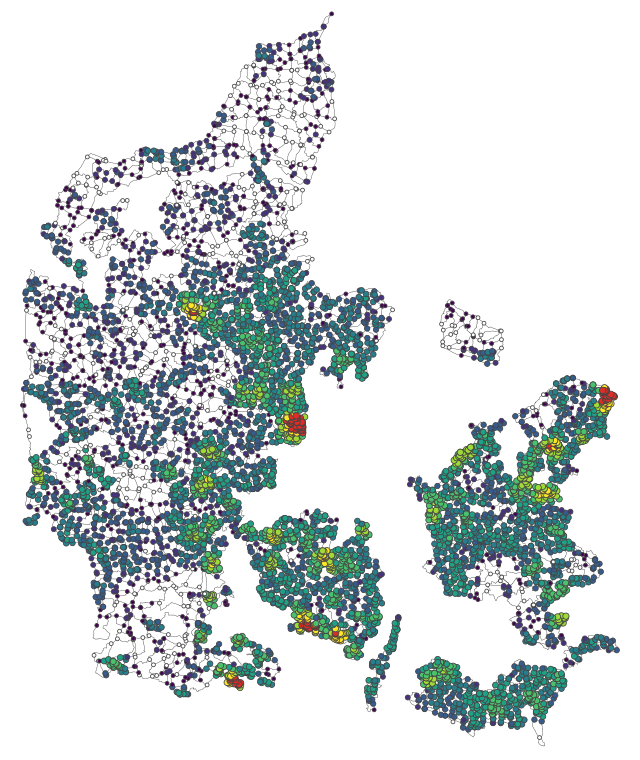
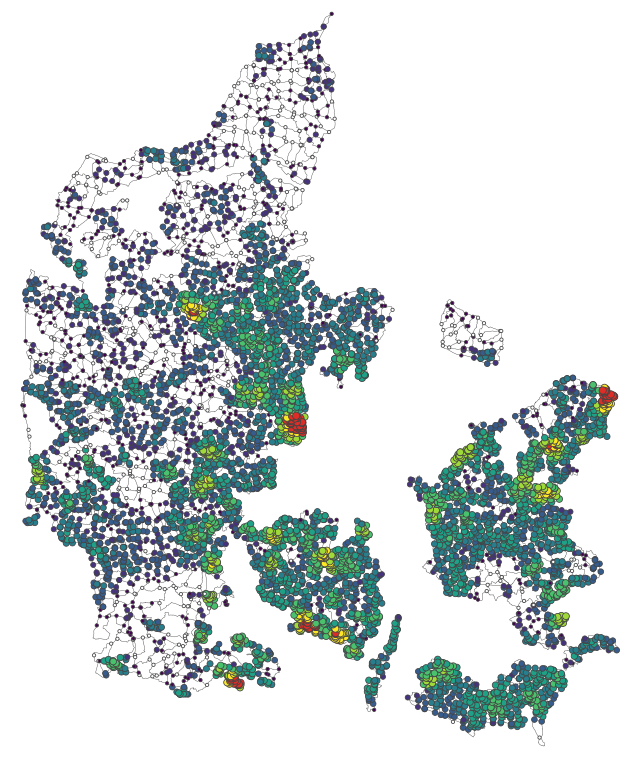
Plot restricted by max slope

diff --git a/code/functions.py b/code/functions.py
@@ -43,7 +43,7 @@ def get_vertex_sizes(loopinfo, max_node_size=20):
     return vertex_sizes, numloops_max
 
 
-def get_vertex_plotinfo(loopinfo, max_node_size=100, bit_threshold=8):
+def get_vertex_plotinfo(loopinfo, max_node_size=150, bit_threshold=8):
     """
     Calculate a node size and color for each node in the loopinfo
     dict for plotting given the number of loops in the node. The
@@ -78,8 +78,27 @@ def get_vertex_plotinfo(loopinfo, max_node_size=100, bit_threshold=8):
             vertex_sizes.append(math.sqrt(val) + 2)
             vertex_colors[k, :] = [1, 1, 1, 1]
 
-    vertex_sizes = [(i - 0.5) / (maxbits / max_node_size) for i in vertex_sizes]
+    vertex_sizes = [(i - 1.25) / (maxbits / max_node_size) for i in vertex_sizes]
     return vertex_sizes, vertex_colors
+
+
+def get_link_plotinfo(edges, var="max_slope", threshold=4):
+    """
+    Calculate a link width and color for each link in the loopinfo
+    dict for plotting given some criterion.
+    """
+
+    link_widths = np.zeros(len(edges))
+    link_colors = np.zeros((len(edges), 4))
+    for i, ms in enumerate(edges["max_slope"]):
+        if ms < threshold:
+            link_widths[i] = 0.3
+            link_colors[i, :] = [0.267, 0.267, 0.267, 1]
+        else:
+            link_widths[i] = PLOTPARAM["maxslope_classification_linewidths"]["medium"]
+            link_colors[i, :] = [0.871, 0.176, 0.149, 1]
+
+    return link_widths, link_colors
 
 
 def lighten_color(color, amount=0.5):
